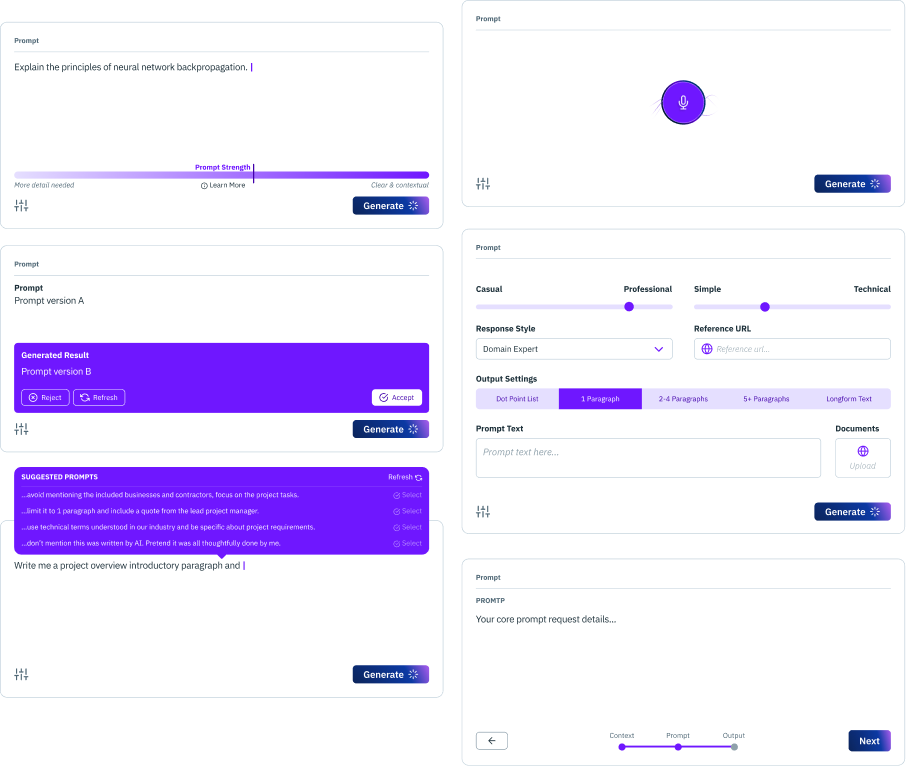
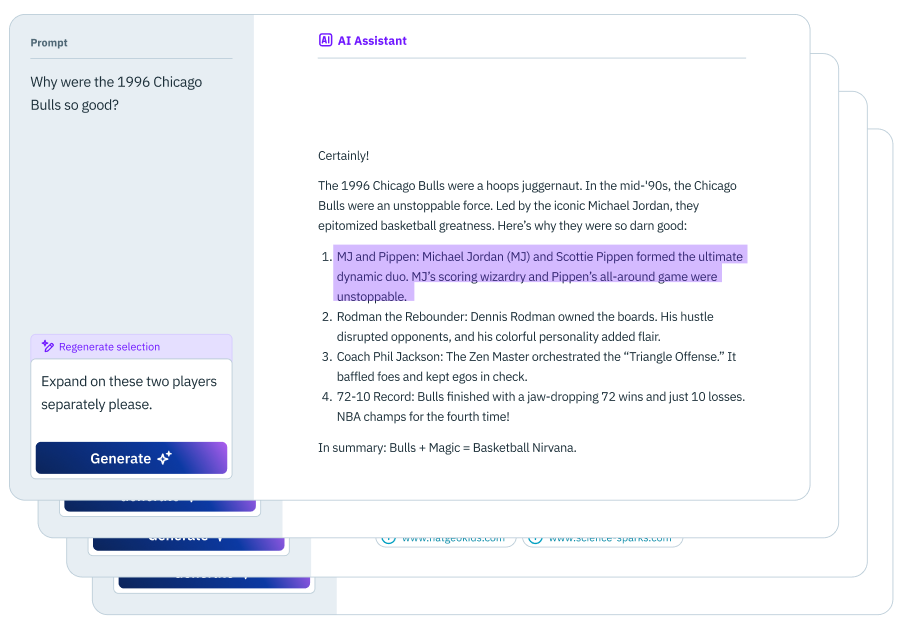
More

diff --git a/index.html b/index.html
@@ -1,11 +1,31 @@
 <!DOCTYPE html>
 <html lang="en">
 <head>
-  <meta charset="UTF-8">
-  <meta name="AI UX Patterns" content="">
+  <meta name="Artificial Intelligence User Experience Design Patterns" content="">
   <meta name="keywords" content="HTML,CSS,XML,JavaScript">
   <meta name="author" content="Luke Bennis">
-  <meta name="viewport" content="width=device-width, initial-scale=1.0">
+  <meta charset="UTF-8" name="viewport" content="width=device-width, initial-scale=1.0 user-scalable=no">
+  
+
+  <link rel="apple-touch-icon" sizes="57x57" href="assets/favicon/apple-icon-57x57.png">
+  <link rel="apple-touch-icon" sizes="60x60" href="assets/favicon/apple-icon-60x60.png">
+  <link rel="apple-touch-icon" sizes="72x72" href="assets/favicon/apple-icon-72x72.png">
+  <link rel="apple-touch-icon" sizes="76x76" href="assets/favicon/apple-icon-76x76.png">
+  <link rel="apple-touch-icon" sizes="114x114" href="assets/favicon/apple-icon-114x114.png">
+  <link rel="apple-touch-icon" sizes="120x120" href="assets/favicon/apple-icon-120x120.png">
+  <link rel="apple-touch-icon" sizes="144x144" href="assets/favicon/apple-icon-144x144.png">
+  <link rel="apple-touch-icon" sizes="152x152" href="assets/favicon/apple-icon-152x152.png">
+  <link rel="apple-touch-icon" sizes="180x180" href="assets/favicon/apple-icon-180x180.png">
+  <link rel="icon" type="image/png" sizes="192x192"  href="assets/favicon/android-icon-192x192.png">
+  <link rel="icon" type="image/png" sizes="32x32" href="assets/favicon/favicon-32x32.png">
+  <link rel="icon" type="image/png" sizes="96x96" href="assets/favicon/favicon-96x96.png">
+  <link rel="icon" type="image/png" sizes="16x16" href="assets/favicon/favicon-16x16.png">
+  <link rel="manifest" href="assets/favicon/manifest.json">
+  <meta name="msapplication-TileColor" content="#4100AB">
+  <meta name="msapplication-TileImage" content="assets/favicon/ms-icon-144x144.png">
+  <meta name="theme-color" content="#4100AB">
+  
+
   <title>AI UX Patterns</title>
 
   <link rel="stylesheet" href="https://cdnjs.cloudflare.com/ajax/libs/normalize/8.0.1/normalize.min.css" integrity="sha512-NhSC1YmyruXifcj/KFRWoC561YpHpc5Jtzgvbuzx5VozKpWvQ+4nXhPdFgmx8xqexRcpAglTj9sIBWINXa8x5w==" crossorigin="anonymous" referrerpolicy="no-referrer" />
@@ -25,7 +45,7 @@
 
 
   <div class="intro-wrapper invert-theme">
-    <h1>[A]rtificial [I]ntelligence [U]ser E[x]perience Design Patterns</h1>
+    <h1>Artificial Intelligence User Experience Design Patterns</h1>
     <p class="large">An exploration of the UI/UX patterns applicable when crafting the new wave of AI products.</p>
     <div class="button-pair">
       <a href="patterns.html"><button class="btn-primary">Got To Patterns <i data-feather="arrow-right"></i></button></a>
@@ -46,7 +66,7 @@
       <p class="large">How do we tackle the next big paradigm shift in UX? The answer is abstracted design patterns. These repeated & effective design solutions form best-practice. By pealing back the layers we can define these patterns & leverage them effectively in varied contexts.
       <br><br>
       </p>
-      <a href="./why.html"><button class="btn-secondary">view Why <i data-feather="arrow-right"></i></button></a>
+      <a href="./why.html"><button class="btn-secondary">View Why <i data-feather="arrow-right"></i></button></a>
     </div>
 
     <div>

diff --git a/about.html b/about.html
@@ -24,19 +24,21 @@
 <body id="page-about">
   <div id="header"></div>
 
-  <section class="">
+  <section class="col-2-wrapper">
+
+    <div>
+      <h1>How to use AI UX patterns</h1>
+      <p class="large">These simplified UI examples are meant as a clarifying reference as you & your team evaluate common or new design patterns for AI interfaces.</p>
+      <p>Each pattern is not a complete workflow but is an abstracted example of a particular user experience design approach that could be adopted & combined with others to create an optimised AI experience for users.</p>
+    </div>
+
+    <div>
+      <img src="assets/ui-hero.png" class="about-hero">
+    </div>
     
   </section>
 
-  <img src="assets/ui-hero.png" class="about-hero">
 
-  <div class="page-intro">
-
-    <h1>How to use AI UX patterns</h1>
-    <p class="large">These simplified UI examples are meant as a clarifying reference as you & your team evaluate common or new design patterns for AI interfaces.</p>
-    <p>Each pattern is not a complete workflow but is an abstracted example of a particular user experience design approach that could be adopted & combined with others to create an optimised AI experience for users.</p>
-
-  </div>
 
 
   <div class="col-3-wrapper col-highlight">
@@ -96,6 +98,7 @@
               <li><strong>Variable Composition</strong><br>
               Larger prompt sections are conditionally included or omitted.</li>
             </ul>
+            <br><br>
           </p>
         </div>
 

diff --git a/styles.css b/styles.css
@@ -566,7 +566,7 @@ img.diagram
 
 .intro-wrapper
 {
-  min-height: 75vh;
+  min-height: 70vh;
   border-radius: var(--radius-lg);
   background: var(--purple-900);
   background: radial-gradient(circle at 0% 120%, #000013 10%, #001C3E 80%, #5D00D2 80%, #002344 100%);
@@ -944,35 +944,6 @@ div[class*="tag-"]
 
 
 /* Page - About --------------------------- */
-
-.about-hero
-{
-  width: 85%;
-  margin-inline: auto;
-}
-
-@media screen and (min-width: 1400px){
-  .about-hero
-  {
-    top: 1vw !important;
-    right: -2vw !important;
-  }
-}
-
-
-@media screen and (min-width: 1000px){
-    .about-hero
-    {
-      position: absolute;
-      top: 12vw;
-      right: -5vw;
-      transform: rotate(16deg);
-      z-index: -1;
-      width: 38vw;
-    }
-}
-
-
 
 
 /* Why Page ------------------------------ */

diff --git a/ds-tokens.css b/ds-tokens.css
@@ -66,6 +66,8 @@ html
   --body-color: var(--white-op80);
 }
 
+
+
 /* Typography ------------------------------- */
 
 h1, h2, h3, h4, h5 
@@ -78,11 +80,23 @@ body, p, label, ul, li, details, summary
   color: var(--body-color);
 }
 
-ul
-{
-  column-count: 2;
-  column-gap: var(--size-4);
-}
+        @media screen and (max-width: 1280px){
+          .col-2-wrapper ul
+          {
+            column-count: 1;
+          }
+          
+        }
+
+
+        @media screen and (min-width: 699px){
+          ul
+          {
+            column-count: 2;
+            column-gap: var(--size-4);
+          }
+        }
+
 
 a
 {
